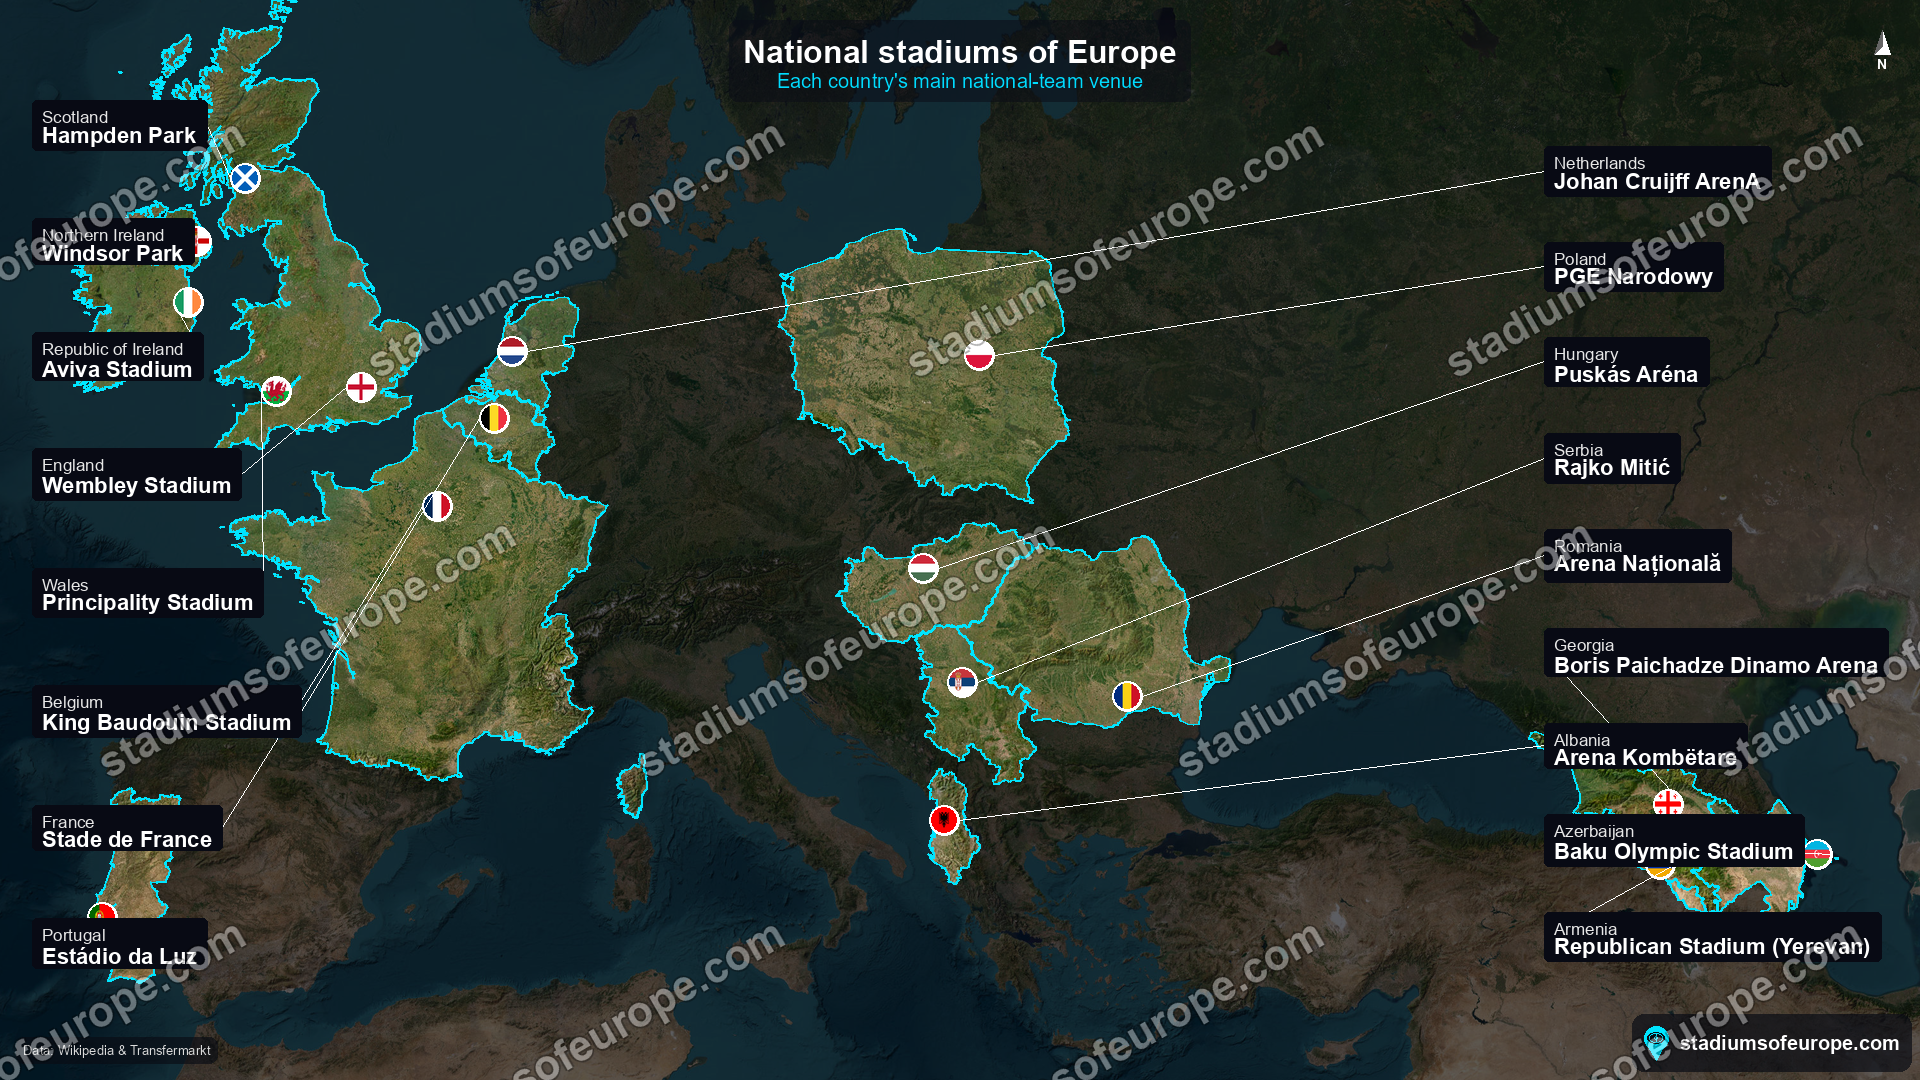
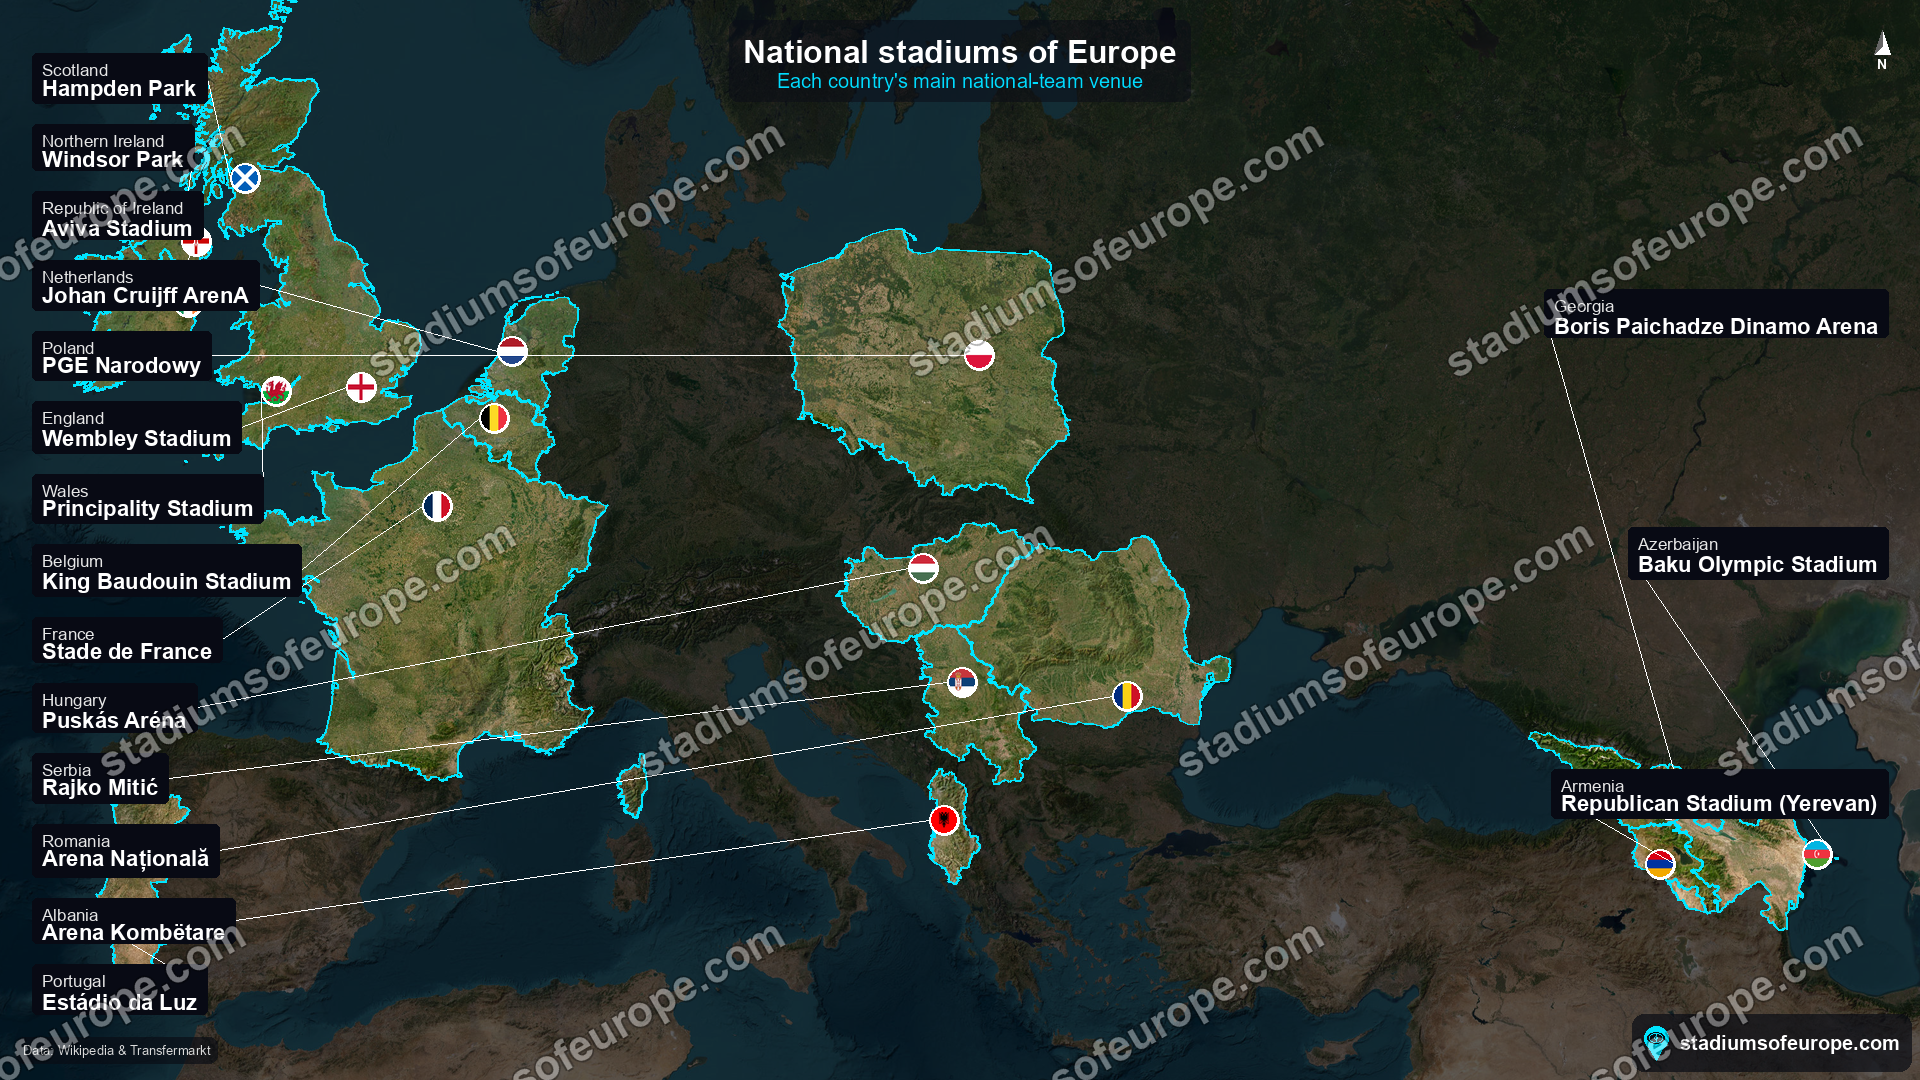
Right-align right-column labels so they stop covering badges
_place_column gave every pill in a column the same x, computed from the WIDEST
pill in that column. For the right column that pushed short labels far left of
the margin, into the map, where they covered badges. Each pill now hugs its own
margin: left column left-aligned at EDGE, right column right-aligned so its
right edge sits at W-EDGE. Regenerated all tournament + insight PNGs.

diff --git a/italianstadia/italiastadiaapp/views.py b/italianstadia/italiastadiaapp/views.py
@@ -3501,6 +3501,12 @@ def _draw_dots_and_labels(img, stadiums, params, bbox, W, H, country_index,
         maxw = max(it["pill_w"] for it in col)
         col_x0 = EDGE if side == "left" else W - EDGE - maxw
         bands = _bands_for(col_x0, col_x0 + maxw)
+        # Each pill hugs its own margin: left column left-aligned at EDGE, right
+        # column RIGHT-aligned so its right edge sits at W-EDGE. Aligning every
+        # right-hand pill to the widest one instead would push short labels far
+        # into the map, covering badges.
+        def _x_for(it):
+            return EDGE if side == "left" else W - EDGE - it["pill_w"]
         col.sort(key=lambda it: it["py"])       # order-preserving → leaders don't cross
         # Build the FREE vertical segments (the column minus reserved bands), then
         # pack labels across them with an even gap. Packing into the real free space
@@ -3529,7 +3535,7 @@ def _draw_dots_and_labels(img, stadiums, params, bbox, W, H, country_index,
             if seg >= len(free):
                 it["lx"] = None                 # genuinely no room left
                 continue
-            it["lx"], it["ly"], it["side"] = col_x0, int(cursor), side
+            it["lx"], it["ly"], it["side"] = _x_for(it), int(cursor), side
             cursor += it["pill_h"] + gap
 
     _place_column(left_col, "left")
